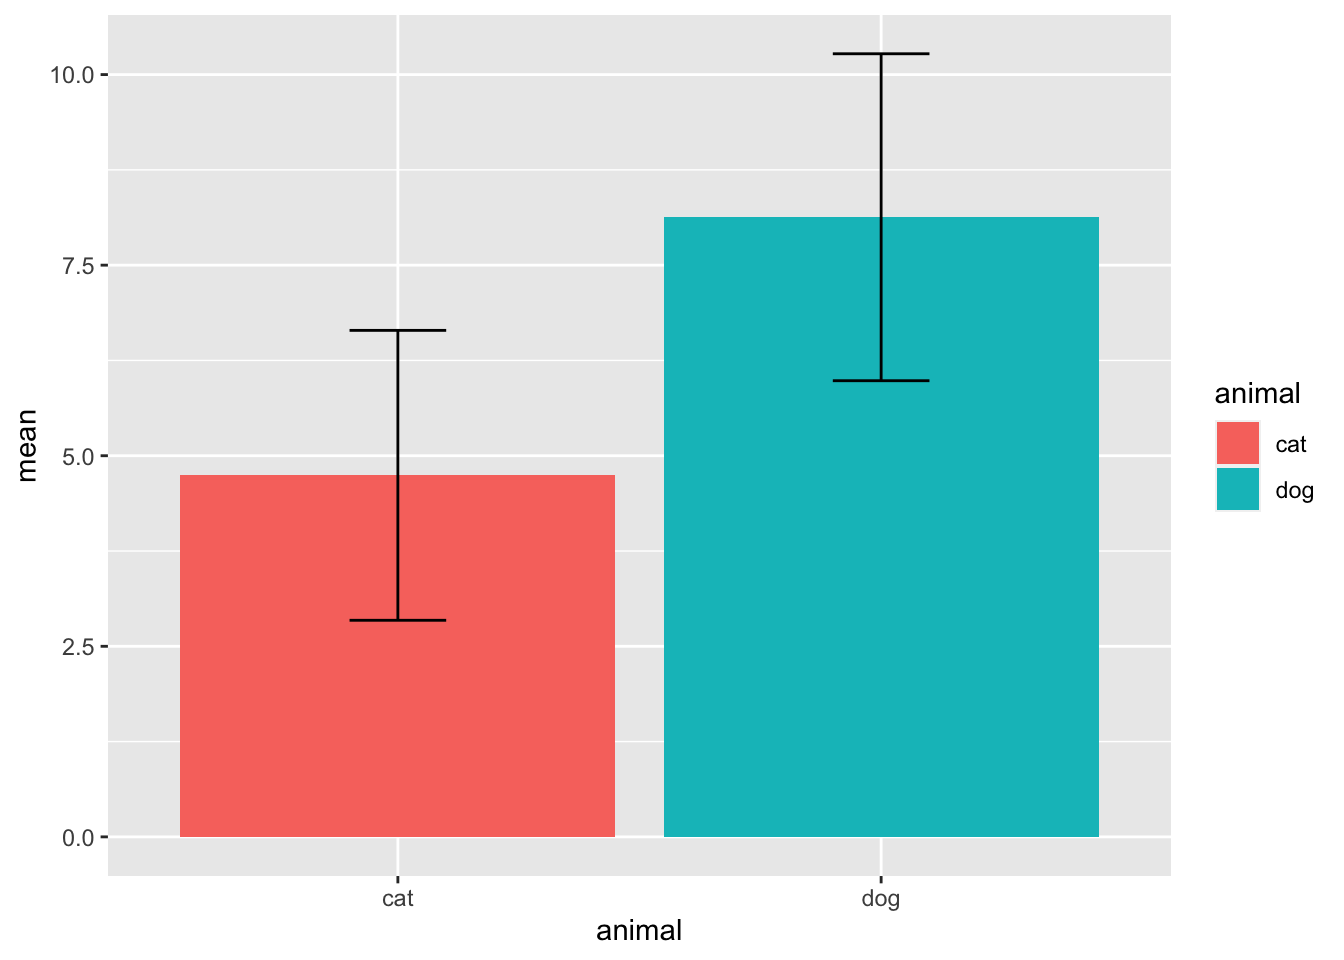
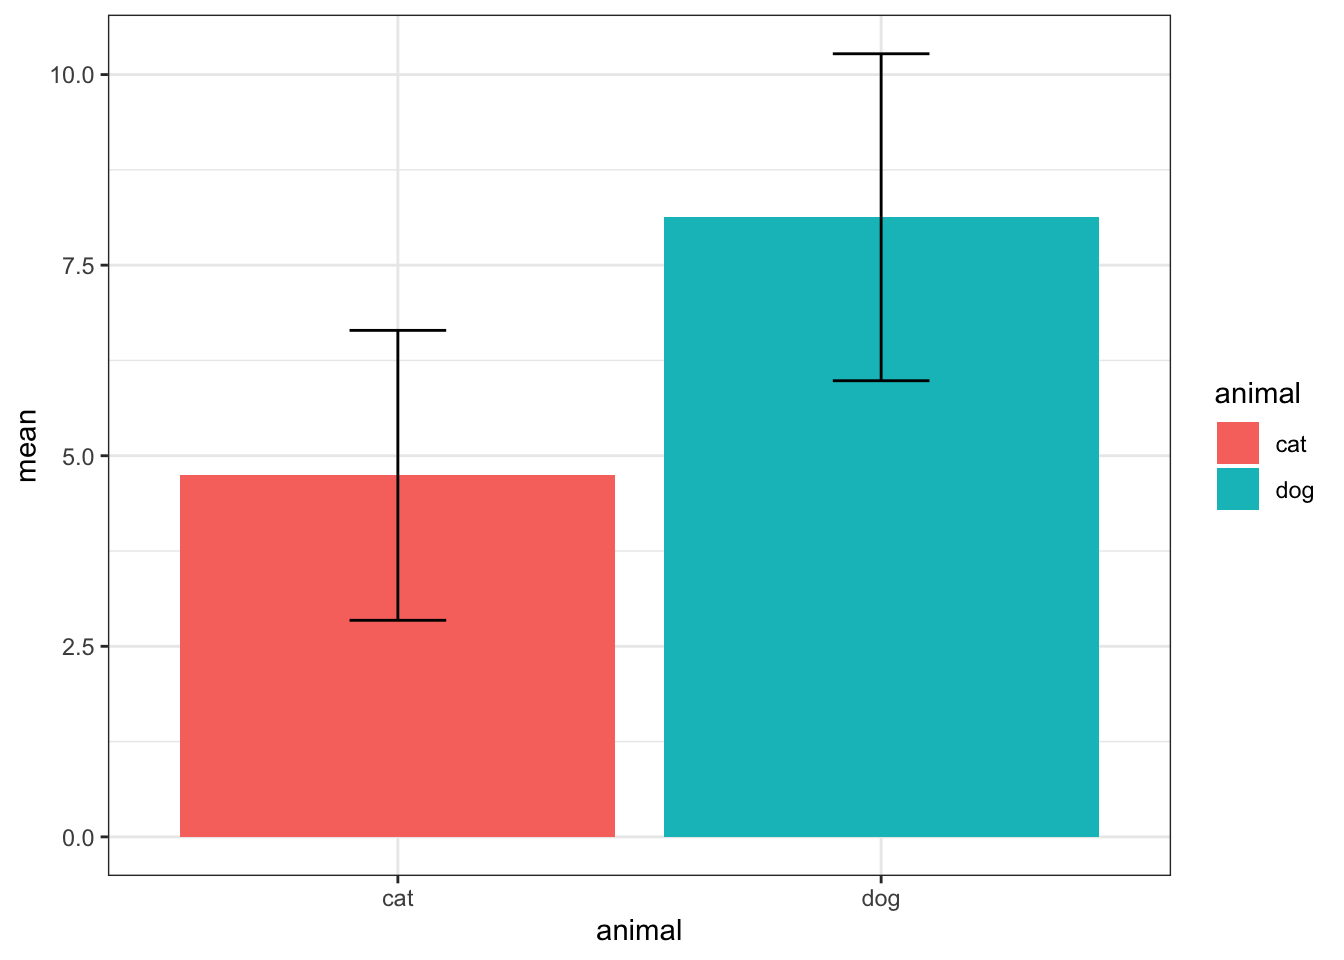
better ggplot()

diff --git a/docs/eda-ggplot.html b/docs/eda-ggplot.html
@@ -729,7 +729,7 @@ div.csl-indent {
 
 </header>
 
-<p><em>Letzte Änderung am 15. September 2023 um 15:27:36</em></p>
+<p><em>Letzte Änderung am 15. September 2023 um 15:54:05</em></p>
 <blockquote class="blockquote">
 <p><em>The greatest value of a picture is when it forces us to notice what we never expected to see.” — John Tukey</em></p>
 </blockquote>
@@ -935,7 +935,8 @@ Cheat Sheets in R als tolle Zusammenfassung und Hilfe
 <p>Erstellen wir also erstmal unseren erste Visualisierung in <code>ggplot()</code>. Wie immer empfehle ich dir dann auch das entsprechende Video auf YouTube anzuschauen. In Textform ist eine echte Herausforderung zu erklären wie man Plots baut. Der folgende R Code erstellt die Leinwand in der <a href="#fig-ggplot-1">Abbildung&nbsp;<span>16.2</span></a> für die folgende, zusätzliches Schichten (<code>geom</code>). Wir haben also immer erst eine leere Leinwand auf der wir dann zusätzlich <code>geom</code>e plotten. Wir bauen uns sozusagen ein Sandwich.</p>
 <div class="cell">
 <div class="sourceCode cell-code" id="cb3"><pre class="sourceCode r code-with-copy"><code class="sourceCode r"><span id="cb3-1"><a href="#cb3-1" aria-hidden="true" tabindex="-1"></a><span class="fu">ggplot</span>(<span class="at">data =</span> flea_dog_cat_tbl, </span>
-<span id="cb3-2"><a href="#cb3-2" aria-hidden="true" tabindex="-1"></a>       <span class="fu">aes</span>(<span class="at">x =</span> animal , <span class="at">y =</span> jump_length))</span></code><button title="In die Zwischenablage kopieren" class="code-copy-button"><i class="bi"></i></button></pre></div>
+<span id="cb3-2"><a href="#cb3-2" aria-hidden="true" tabindex="-1"></a>       <span class="fu">aes</span>(<span class="at">x =</span> animal , <span class="at">y =</span> jump_length)) <span class="sc">+</span></span>
+<span id="cb3-3"><a href="#cb3-3" aria-hidden="true" tabindex="-1"></a>  <span class="fu">theme_bw</span>()</span></code><button title="In die Zwischenablage kopieren" class="code-copy-button"><i class="bi"></i></button></pre></div>
 </div>
 <p>Wir schauen uns einmal den Code im Detail an.</p>
 <ul>
@@ -946,6 +947,7 @@ Cheat Sheets in R als tolle Zusammenfassung und Hilfe
 <li><code>x</code> braucht den Spaltennamen für die Variable auf der <span class="math inline">\(x\)</span>-Achse.</li>
 <li><code>y</code> braucht den Spaltennamen für die Variable auf der <span class="math inline">\(y\)</span>-Achse.</li>
 </ul></li>
+<li><code>+ theme_bw()</code> setzt das Canvas oder die Leinwand auf schwarz/weiß. Sonst wäre die Leinwand flächig grau.</li>
 </ul>
 <p>Mit <em>Faktoren</em> meine ich hier andere Gruppenvariablen. Variablen sind ein anderes Wort für Spalten. Also Variablen die wir mit <code>as_factor</code> erschaffen haben und die uns noch mehr über unsere Daten dann verraten können. Hier ist es dann etwas abstrakt, aber es wird dann später in der Anwendung klarer.</p>
 <div class="cell" data-layout-align="center">
@@ -1236,9 +1238,10 @@ Histogramm, Boxplot, Scatterplot und Mosaicplot im Video
 <p>Wir nutzen nun das Objekt <code>stat_tbl</code> um den Barplot mit der Funktion <code>ggplot()</code> zu erstellen. Dabei müssen wir zum einen schauen, dass die Balken nicht übereinander angeordnet sind. Nebeneinander angeordnete Balken kriegen wir mit der Option <code>stat = "identity"</code> in dem <code>geom_bar()</code>. Dann müssen wir noch die Fehlerbalken ergänzen mit dem <code>geom_errorbar</code>. Hier kann nochmal mit der Option <code>width =</code> an der Länge der Fehlerenden gedreht werden.</p>
 <div class="cell">
 <div class="sourceCode cell-code" id="cb14"><pre class="sourceCode r code-with-copy"><code class="sourceCode r"><span id="cb14-1"><a href="#cb14-1" aria-hidden="true" tabindex="-1"></a><span class="fu">ggplot</span>(stat_tbl, <span class="fu">aes</span>(<span class="at">x =</span> animal, <span class="at">y =</span> mean, <span class="at">fill =</span> animal)) <span class="sc">+</span> </span>
-<span id="cb14-2"><a href="#cb14-2" aria-hidden="true" tabindex="-1"></a>    <span class="fu">geom_bar</span>(<span class="at">stat =</span> <span class="st">"identity"</span>) <span class="sc">+</span></span>
-<span id="cb14-3"><a href="#cb14-3" aria-hidden="true" tabindex="-1"></a>    <span class="fu">geom_errorbar</span>(<span class="fu">aes</span>(<span class="at">ymin =</span> mean<span class="sc">-</span>sd, <span class="at">ymax =</span> mean<span class="sc">+</span>sd),</span>
-<span id="cb14-4"><a href="#cb14-4" aria-hidden="true" tabindex="-1"></a>                  <span class="at">width =</span> <span class="fl">0.2</span>)</span></code><button title="In die Zwischenablage kopieren" class="code-copy-button"><i class="bi"></i></button></pre></div>
+<span id="cb14-2"><a href="#cb14-2" aria-hidden="true" tabindex="-1"></a>  <span class="fu">theme_bw</span>() <span class="sc">+</span></span>
+<span id="cb14-3"><a href="#cb14-3" aria-hidden="true" tabindex="-1"></a>  <span class="fu">geom_bar</span>(<span class="at">stat =</span> <span class="st">"identity"</span>) <span class="sc">+</span></span>
+<span id="cb14-4"><a href="#cb14-4" aria-hidden="true" tabindex="-1"></a>  <span class="fu">geom_errorbar</span>(<span class="fu">aes</span>(<span class="at">ymin =</span> mean<span class="sc">-</span>sd, <span class="at">ymax =</span> mean<span class="sc">+</span>sd),</span>
+<span id="cb14-5"><a href="#cb14-5" aria-hidden="true" tabindex="-1"></a>                <span class="at">width =</span> <span class="fl">0.2</span>)</span></code><button title="In die Zwischenablage kopieren" class="code-copy-button"><i class="bi"></i></button></pre></div>
 <div class="cell-output-display">
 <p><img src="eda-ggplot_files/figure-html/unnamed-chunk-20-1.png" class="img-fluid" width="672"></p>
 </div>
